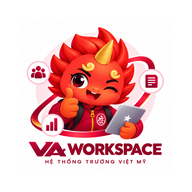
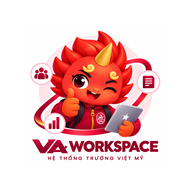
s

Changed region(s): [[0.125, 0.125, 0.875, 0.875]]

diff --git a/public/sw.js b/public/sw.js
@@ -1,6 +1,5 @@
 // VA Workspace — service worker
-// v4: đổi logo/icon PWA — bump version để xoá cache ảnh cũ (stale-while-
-// revalidate ở v3 vẫn phục vụ icon cũ cho tới khi cache bị invalidate).
+// v7: icon PWA full artwork (không crop) — bump version để xoá cache ảnh cũ.
 //
 // Chiến lược:
 // - App shell ("/"): network-first, cache lại bản mới nhất để mở offline được.
@@ -11,7 +10,7 @@
 // - API (/api/...) và điều hướng trang khác: network-first, không cache dữ liệu
 //   nhạy cảm — chỉ dùng fallback offline.html khi mất mạng hoàn toàn.
 
-const CACHE_VERSION = 'v4';
+const CACHE_VERSION = 'v7';
 const SHELL_CACHE = `va-shell-${CACHE_VERSION}`;
 const ASSET_CACHE = `va-assets-${CACHE_VERSION}`;
 const IMAGE_CACHE = `va-images-${CACHE_VERSION}`;
@@ -21,8 +20,11 @@ const OFFLINE_URL = '/offline.html';
 const APP_SHELL_URLS = [
   '/',
   OFFLINE_URL,
+  '/manifest.json',
   '/images/favicon.png',
+  '/images/pwa/apple-touch-icon.png',
   '/images/pwa/icon-192.png',
+  '/images/pwa/icon-512.png',
 ];
 
 self.addEventListener('install', (event) => {
@@ -58,6 +60,11 @@ self.addEventListener('message', (event) => {
 
 function isBuildAsset(url) {
   return url.origin === self.location.origin && url.pathname.startsWith('/build/');
+}
+
+function isPwaBrandImage(url) {
+  return url.pathname.startsWith('/images/pwa/')
+    || url.pathname === '/images/favicon.png';
 }
 
 function isStaticImage(url) {
@@ -102,6 +109,19 @@ async function networkFirstShell(request) {
   }
 }
 
+async function networkFirstImage(request) {
+  const cache = await caches.open(IMAGE_CACHE);
+  try {
+    const response = await fetch(request);
+    if (response.ok) cache.put(request, response.clone());
+    return response;
+  } catch {
+    const cached = await cache.match(request);
+    if (cached) return cached;
+    return fetch(request);
+  }
+}
+
 async function networkOnlyWithFallback(request) {
   try {
     return await fetch(request);
@@ -128,6 +148,11 @@ self.addEventListener('fetch', (event) => {
 
   if (isBuildAsset(url)) {
     event.respondWith(cacheFirst(request, ASSET_CACHE));
+    return;
+  }
+
+  if (isPwaBrandImage(url)) {
+    event.respondWith(networkFirstImage(request));
     return;
   }
 

diff --git a/scripts/generate-pwa-icons.py b/scripts/generate-pwa-icons.py
@@ -1,0 +1,75 @@
+#!/usr/bin/env python3
+"""Sinh favicon + icon PWA từ public/images/pwa/mascot-logo-source.png."""
+
+from __future__ import annotations
+
+from pathlib import Path
+
+from PIL import Image
+
+ROOT = Path(__file__).resolve().parents[1]
+SOURCE = ROOT / "public" / "images" / "pwa" / "mascot-logo-source.png"
+IMAGES = ROOT / "public" / "images"
+PWA = IMAGES / "pwa"
+
+# Nền trắng khớp artwork nguồn; maskable thu nhỏ ~76% để nằm trong vùng an toàn Android.
+MASKABLE_CONTENT_SCALE = 0.76
+ICON_CONTENT_SCALE = 1.0
+
+
+def _square_canvas(
+    source: Image.Image,
+    size: int,
+    *,
+    bg: tuple[int, int, int] = (255, 255, 255),
+    content_scale: float = 1.0,
+) -> Image.Image:
+    src = source.convert("RGBA")
+    w, h = src.size
+    scale = min(size / w, size / h) * content_scale
+    nw, nh = max(1, int(w * scale)), max(1, int(h * scale))
+    resized = src.resize((nw, nh), Image.Resampling.LANCZOS)
+    canvas = Image.new("RGBA", (size, size), bg + (255,))
+    canvas.paste(resized, ((size - nw) // 2, (size - nh) // 2), resized)
+    return canvas
+
+
+def _save_rgb(path: Path, image: Image.Image) -> None:
+    path.parent.mkdir(parents=True, exist_ok=True)
+    image.convert("RGB").save(path, optimize=True)
+
+
+def main() -> None:
+    if not SOURCE.is_file():
+        raise SystemExit(f"Thiếu file nguồn: {SOURCE}")
+
+    source = Image.open(SOURCE)
+
+    for size, name in ((192, "icon-192.png"), (512, "icon-512.png")):
+        _save_rgb(PWA / name, _square_canvas(source, size, content_scale=ICON_CONTENT_SCALE))
+
+    for size, name in ((192, "maskable-192.png"), (512, "maskable-512.png")):
+        _save_rgb(
+            PWA / name,
+            _square_canvas(source, size, content_scale=MASKABLE_CONTENT_SCALE),
+        )
+
+    # iOS Safari: “Thêm vào Màn hình chính” lấy apple-touch-icon (180×180).
+    _save_rgb(PWA / "apple-touch-icon.png", _square_canvas(source, 180, content_scale=ICON_CONTENT_SCALE))
+
+    fav32 = _square_canvas(source, 32, content_scale=ICON_CONTENT_SCALE)
+    _save_rgb(IMAGES / "favicon.png", fav32)
+    _save_rgb(IMAGES / "favicon-2.png", fav32)
+
+    ico_layers = [_square_canvas(source, s, content_scale=ICON_CONTENT_SCALE) for s in (16, 32, 48)]
+    ico_layers[0].save(
+        ROOT / "public" / "favicon.ico",
+        format="ICO",
+        sizes=[(16, 16), (32, 32), (48, 48)],
+    )
+
+    print("Generated PWA icons from", SOURCE.name)
+
+
+if __name__ == "__main__":
+    main()

diff --git a/resources/views/app.blade.php b/resources/views/app.blade.php
@@ -20,8 +20,10 @@
     <meta name="apple-mobile-web-app-status-bar-style" content="black-translucent">
     <meta name="apple-mobile-web-app-title" content="VA Workspace">
     <title>{{ config('app.name', 'VA Workspace') }}</title>
-    <link rel="icon" href="/images/favicon.png" type="image/png">
-    <link rel="apple-touch-icon" href="/images/pwa/apple-touch-icon.png">
+    <link rel="icon" href="/images/favicon.png" type="image/png" sizes="32x32">
+    {{-- iOS “Thêm vào Màn hình chính” — không dùng manifest icon --}}
+    <link rel="apple-touch-icon" href="/images/pwa/apple-touch-icon.png" sizes="180x180">
+    <link rel="apple-touch-icon" href="/images/pwa/icon-192.png" sizes="192x192">
     <link rel="manifest" href="/manifest.json">
     {{-- Boot splash: hiện ngay trước Vite — tránh màn trắng khi mở PWA / reload --}}
     <style>
